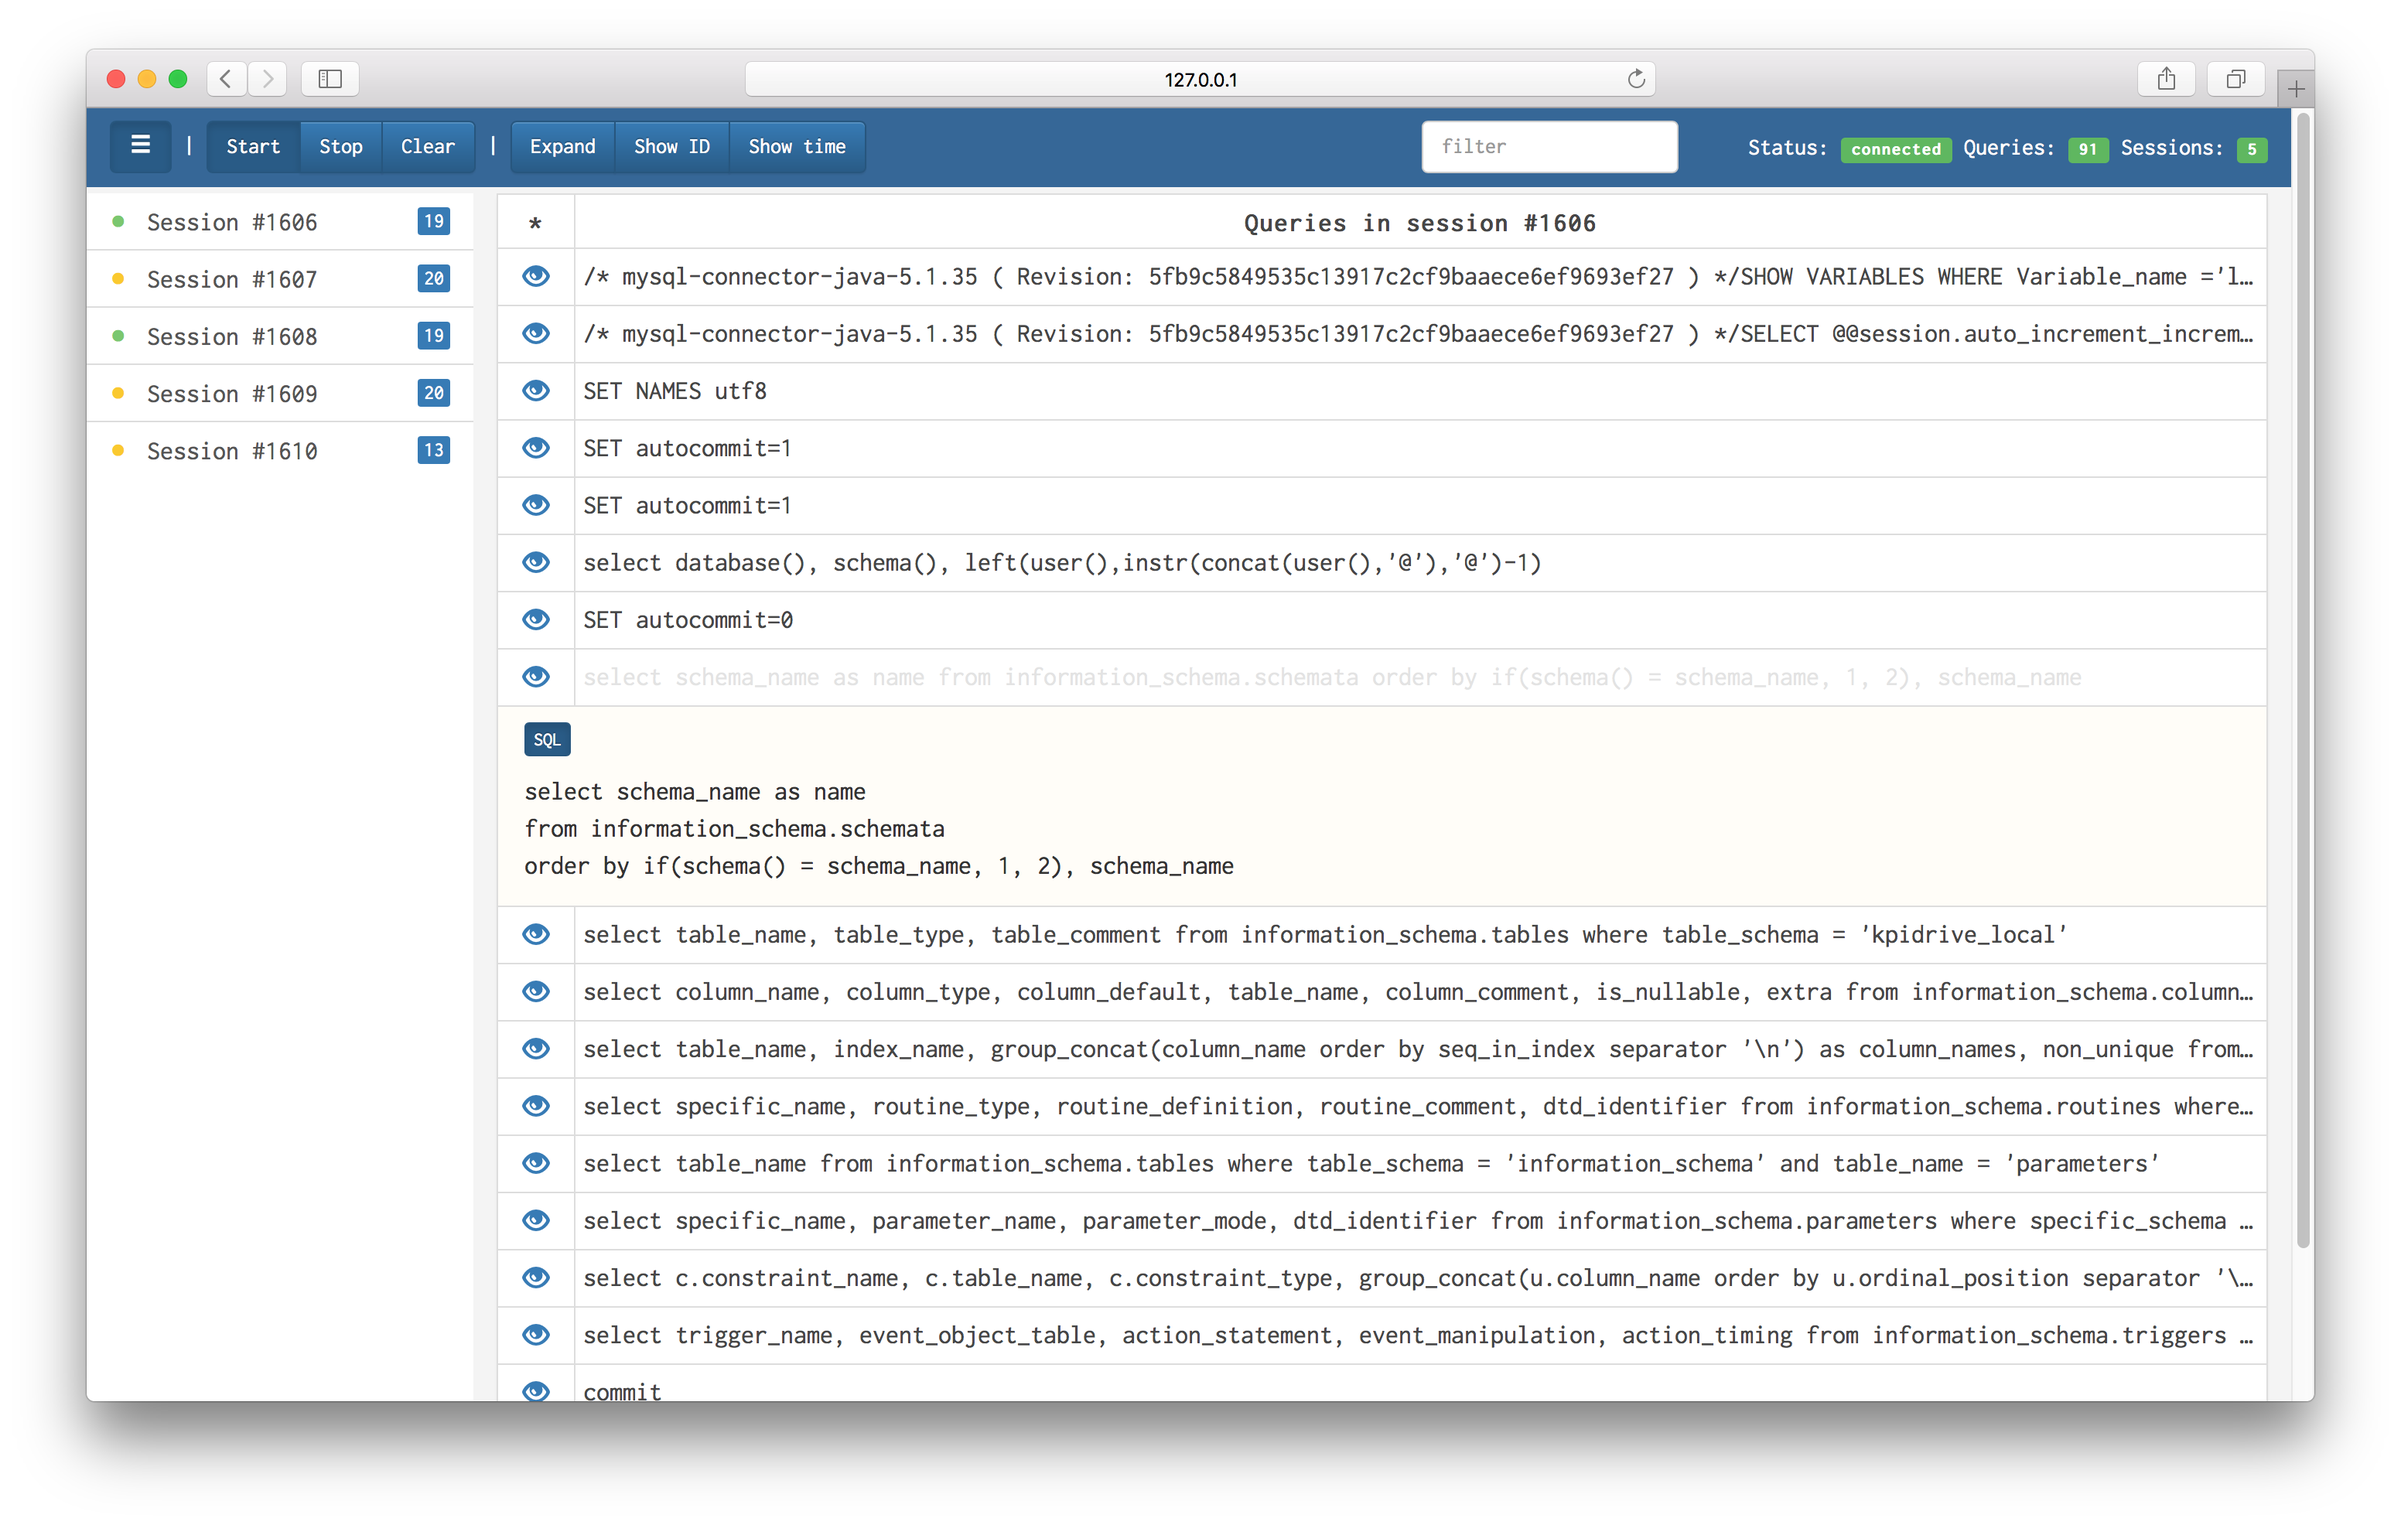
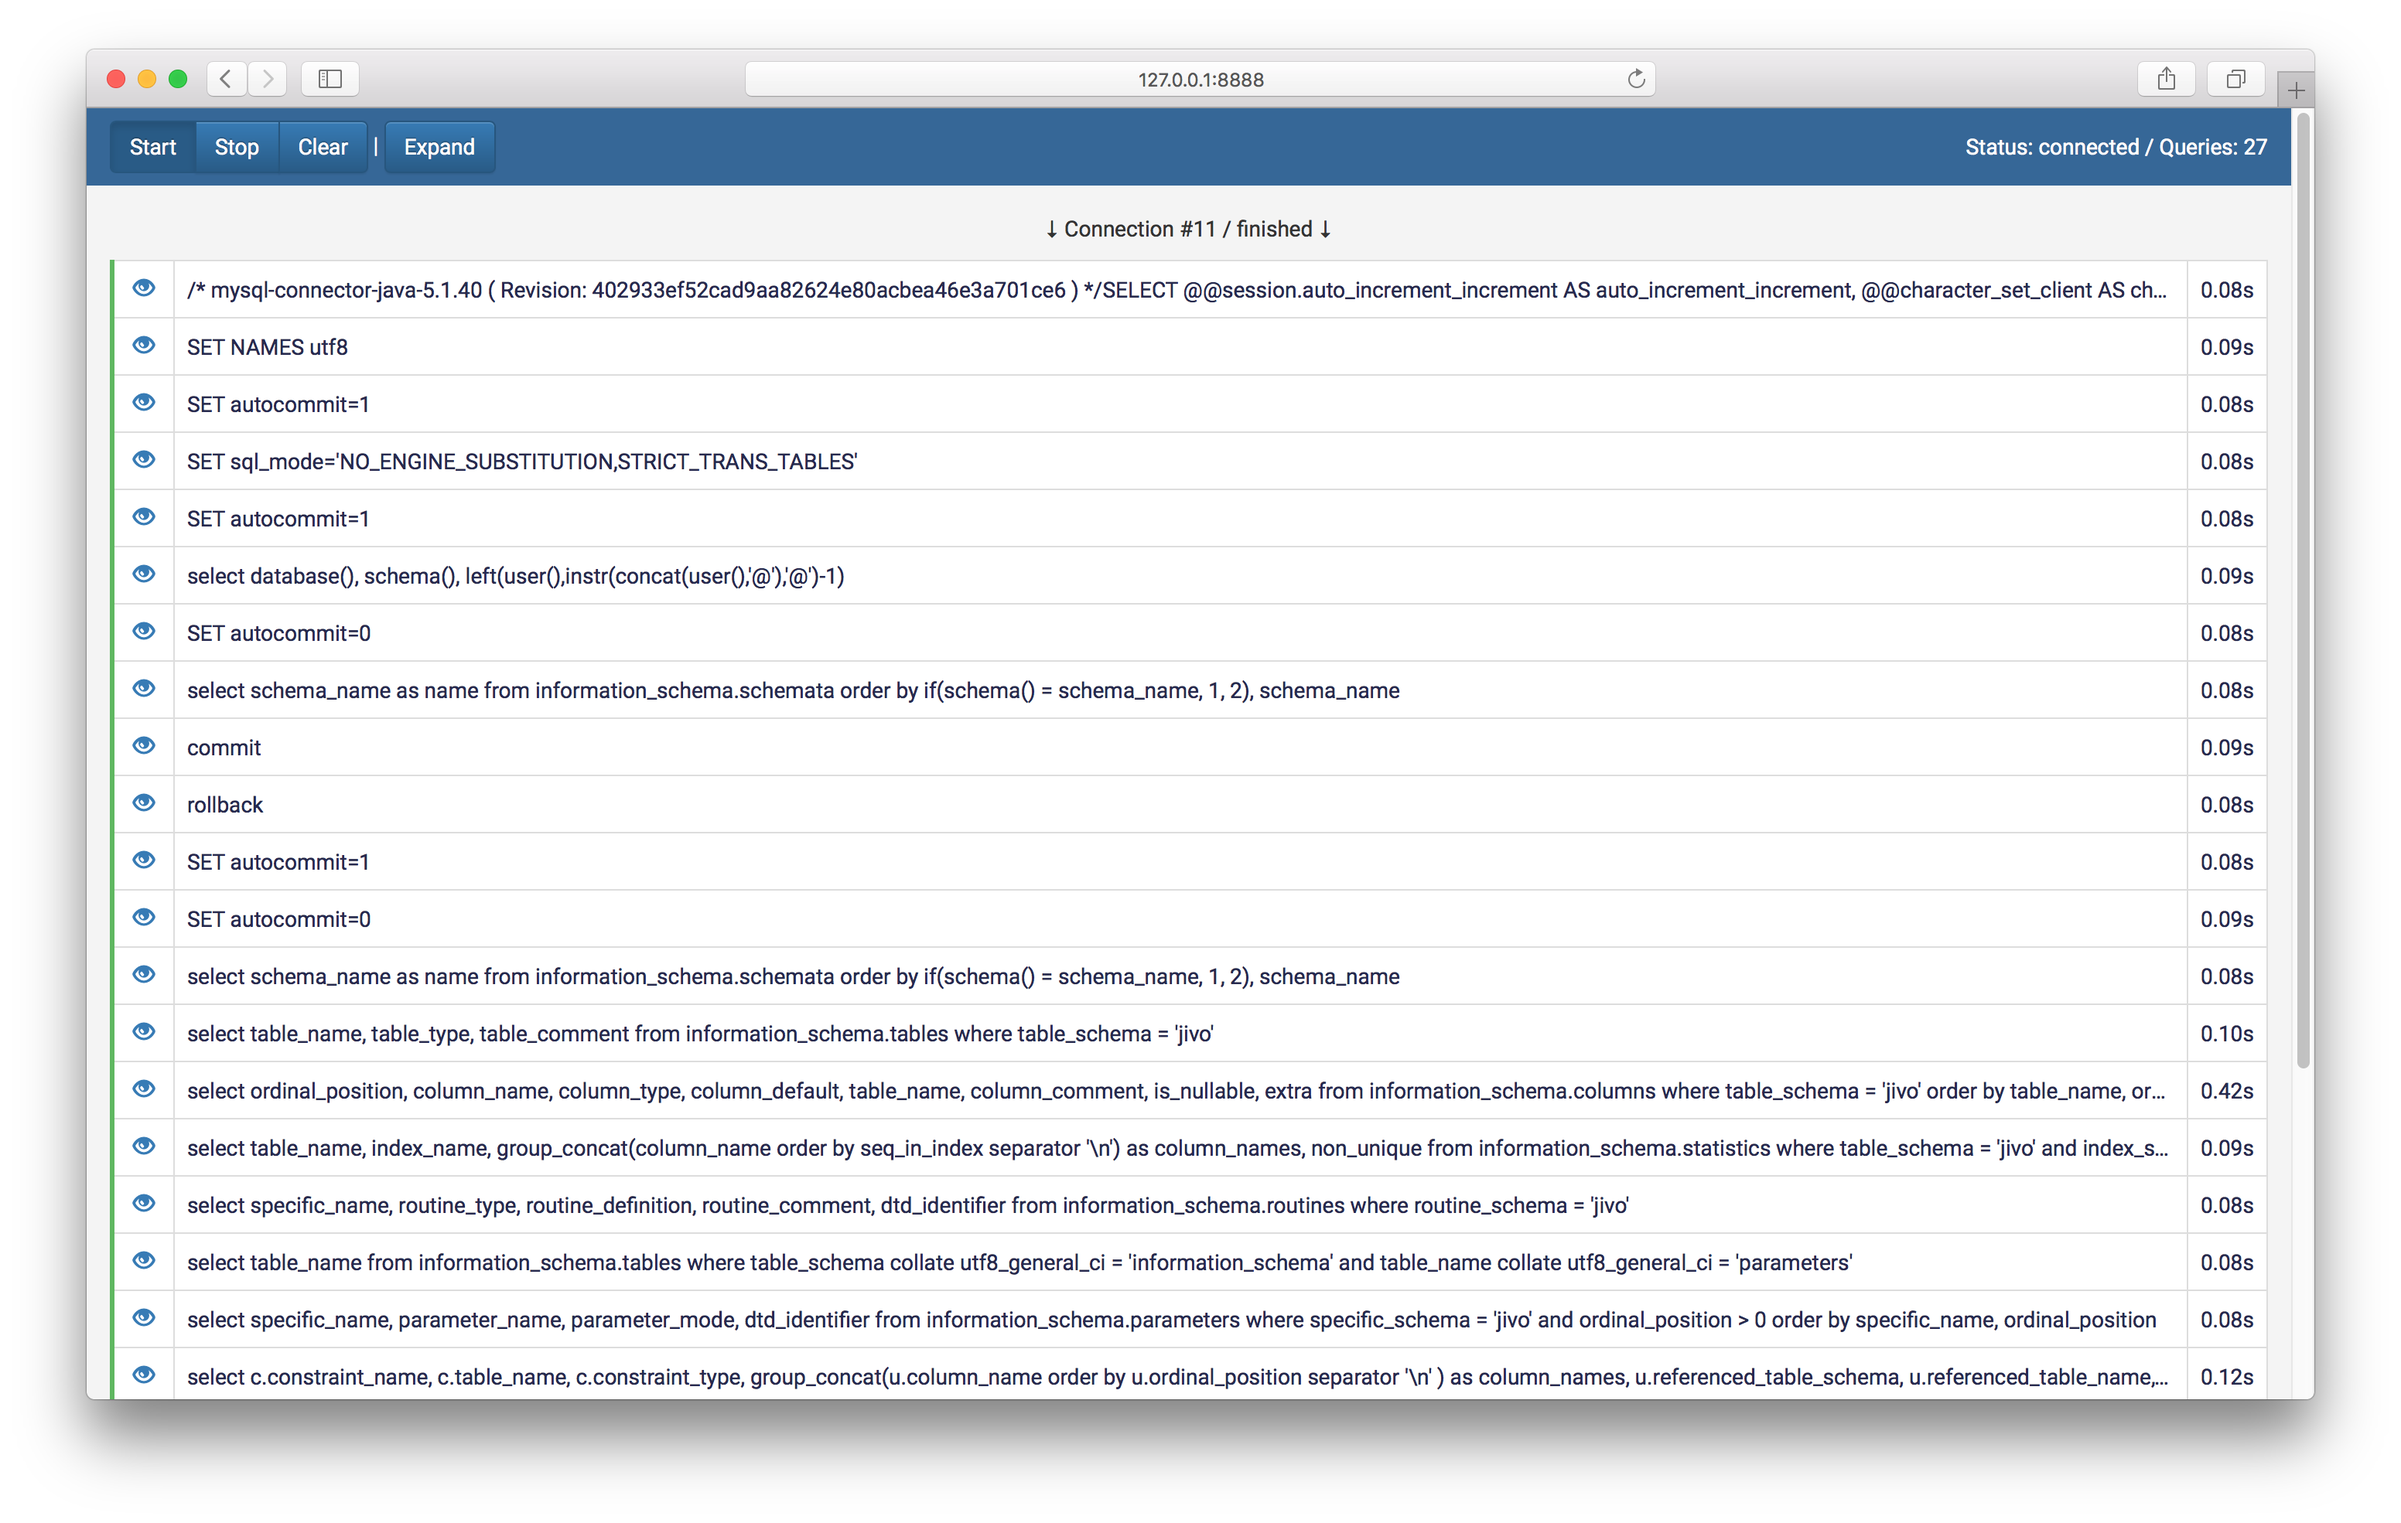
Bugfixes & updated screenshots

Changed region(s): [[0.0312, 0.0619, 0.9688, 0.9289], [0.4688, 0.031, 0.5312, 0.0619]]

diff --git a/proxy/server.go b/proxy/server.go
@@ -83,14 +83,17 @@ func (ps *ProxyServer) handleConnection(connId int, conn net.Conn) {
 	defer ps.setConnectionState(connId, connStateFinished)
 	ps.setConnectionState(connId, connStateStarted)
 
-	processHandshake(conn, mysql)
+	serverCapabilities, clientCapabilities := processHandshake(conn, mysql)
 
-	ps.extractAndForward(conn, mysql, connId)
+	ps.extractAndForward(conn, mysql, connId, serverCapabilities, clientCapabilities)
 }
 
 // extractAndForward reads data from proxy client, extracts queries and forwards them to MySQL
-func (ps *ProxyServer) extractAndForward(conn net.Conn, mysql net.Conn, connId int) {
+func (ps *ProxyServer) extractAndForward(conn net.Conn, mysql net.Conn, connId int, serverCapabilities uint32, clientCapabilities uint32) {
 	var cmdId int
+	var deprecateEof = ((capabilityDeprecateEof & serverCapabilities) != 0) &&
+		((capabilityDeprecateEof & clientCapabilities) != 0)
+
 	for {
 
 		//Client query --> $queryPacket - -> mysql
@@ -121,7 +124,7 @@ func (ps *ProxyServer) extractAndForward(conn net.Conn, mysql net.Conn, connId i
 			start := time.Now()
 			writePacket(queryPacket, mysql)
 
-			response, result, err := readResponse(mysql)
+			response, result, err := readResponse(mysql, deprecateEof)
 			if err == nil {
 				if result == responseErr {
 					ps.setCommandResult(connId, cmdId, result, readErrMessage(response), time.Since(start))
@@ -150,7 +153,12 @@ func (ps *ProxyServer) extractAndForward(conn net.Conn, mysql net.Conn, connId i
 		// Received COM_STMT_EXECUTE from MySQL client
 		case requestCmdStmtExecute:
 			writePacket(queryPacket, mysql)
-			response, _, _ := readResponse(mysql)
+			response, _, _ := readResponse(mysql, deprecateEof)
+			writePacket(response, conn)
+
+		case requestCmdShowFields:
+			writePacket(queryPacket, mysql)
+			response, _, _ := readShowFieldsResponse(mysql)
 			writePacket(response, conn)
 
 		// Received COM_STMT_CLOSE from client

diff --git a/proxy/packet.go b/proxy/packet.go
@@ -9,8 +9,16 @@ import (
 // processHandshake handles handshake between client and MySQL server.
 // When client connects MySQL server for the first time "handshake"
 // packet is sent by MySQL server so it just should be delivered without analyzing.
-func processHandshake(app net.Conn, mysql net.Conn) {
+// Returns extended server and client capabilities flags
+func processHandshake(app net.Conn, mysql net.Conn) (uint32, uint32) {
+	serverPacket, _ := proxyPacket(mysql, app)
+	clientPacket, _ := proxyPacket(app, mysql)
 	proxyPacket(mysql, app)
+
+	serverCapabilities := uint32(binary.LittleEndian.Uint16(serverPacket[30: 30 + 2]));
+	clientCapabilities := uint32(binary.LittleEndian.Uint16(clientPacket[6: 6 + 2]));
+
+	return serverCapabilities, clientCapabilities
 }
 
 // readPrepareResponse reads response from MySQL server for COM_STMT_PREPARE
@@ -65,14 +73,16 @@ func readErrMessage(errPacket []byte) string {
 	return string(errPacket[13:])
 }
 
+func readShowFieldsResponse(conn net.Conn) ([]byte, byte, error) {
+	return readResponse(conn, true)
+}
+
 // readResponse ...
-func readResponse(conn net.Conn) ([]byte, byte, error) {
+func readResponse(conn net.Conn, deprecateEof bool) ([]byte, byte, error) {
 	pkt, err := readPacket(conn)
 	if err != nil {
 		return []byte{}, 0, err
 	}
-
-	columns, _, _ := lenDecInt(pkt[4:])
 
 	switch pkt[4] {
 
@@ -90,14 +100,19 @@ func readResponse(conn net.Conn) ([]byte, byte, error) {
 
 	data = append(data, pkt...)
 
-	toRead := int(columns) + 1
-	for i := 0; i < toRead; i++ {
-		pkt, err := readPacket(conn)
-		if err != nil {
-			return []byte{}, 0, err
-		}
+	if !deprecateEof {
+		columns, _, _ := lenDecInt(pkt[4:])
 
-		data = append(data, pkt...)
+		toRead := int(columns) + 1
+
+		for i := 0; i < toRead; i++ {
+			pkt, err := readPacket(conn)
+			if err != nil {
+				return []byte{}, 0, err
+			}
+
+			data = append(data, pkt...)
+		}
 	}
 
 	for {

diff --git a/proxy/const.go b/proxy/const.go
@@ -3,6 +3,7 @@ package proxy
 const (
 	// MySQL internal protocol constants
 	requestCmdQuery       = 0x03
+	requestCmdShowFields  = 0x04
 	requestCmdStmtPrepare = 0x16
 	requestCmdStmtExecute = 0x17
 	requestCmdStmtClose   = 0x19
@@ -11,6 +12,9 @@ const (
 	responsePrepareOk     = 0x00
 	responseErr           = 0xff
 	responseLocalinfile   = 0xfb
+
+	// Extended client capabilities
+	capabilityDeprecateEof = 0x100
 
 	// There is no code for Resultset in MySQL internal protocol
 	// so it's defined here for convenient usage

diff --git a/main.go b/main.go
@@ -4,7 +4,7 @@ import (
 	"flag"
 	"fmt"
 	"github.com/gorilla/websocket"
-	"github.com/orderbynull/new/proxy"
+	"github.com/orderbynull/lottip/proxy"
 	"log"
 	"net/http"
 )

diff --git a/client.go b/client.go
@@ -6,7 +6,7 @@ import (
 )
 
 const (
-	pingPeriod = time.Millisecond * 5000
+	pingPeriod          = time.Millisecond * 5000
 	writeDeadlinePeriod = time.Second * 2
 )
 

diff --git a/hub.go b/hub.go
@@ -2,7 +2,7 @@ package main
 
 import (
 	"encoding/json"
-	"github.com/orderbynull/new/proxy"
+	"github.com/orderbynull/lottip/proxy"
 )
 
 // Hub ...

diff --git a/README.md b/README.md
@@ -8,6 +8,8 @@ It сomes as single  binary and consists of 2 parts: proxy server and embedded G
 #Screenshots
 ![Example 1](https://raw.githubusercontent.com/orderbynull/lottip/master/shots/1.png)
 ![Example 2](https://raw.githubusercontent.com/orderbynull/lottip/master/shots/2.png)
+![Example 3](https://raw.githubusercontent.com/orderbynull/lottip/master/shots/3.png)
+![Example 4](https://raw.githubusercontent.com/orderbynull/lottip/master/shots/4.png)
 
 # Main features
 TODO
